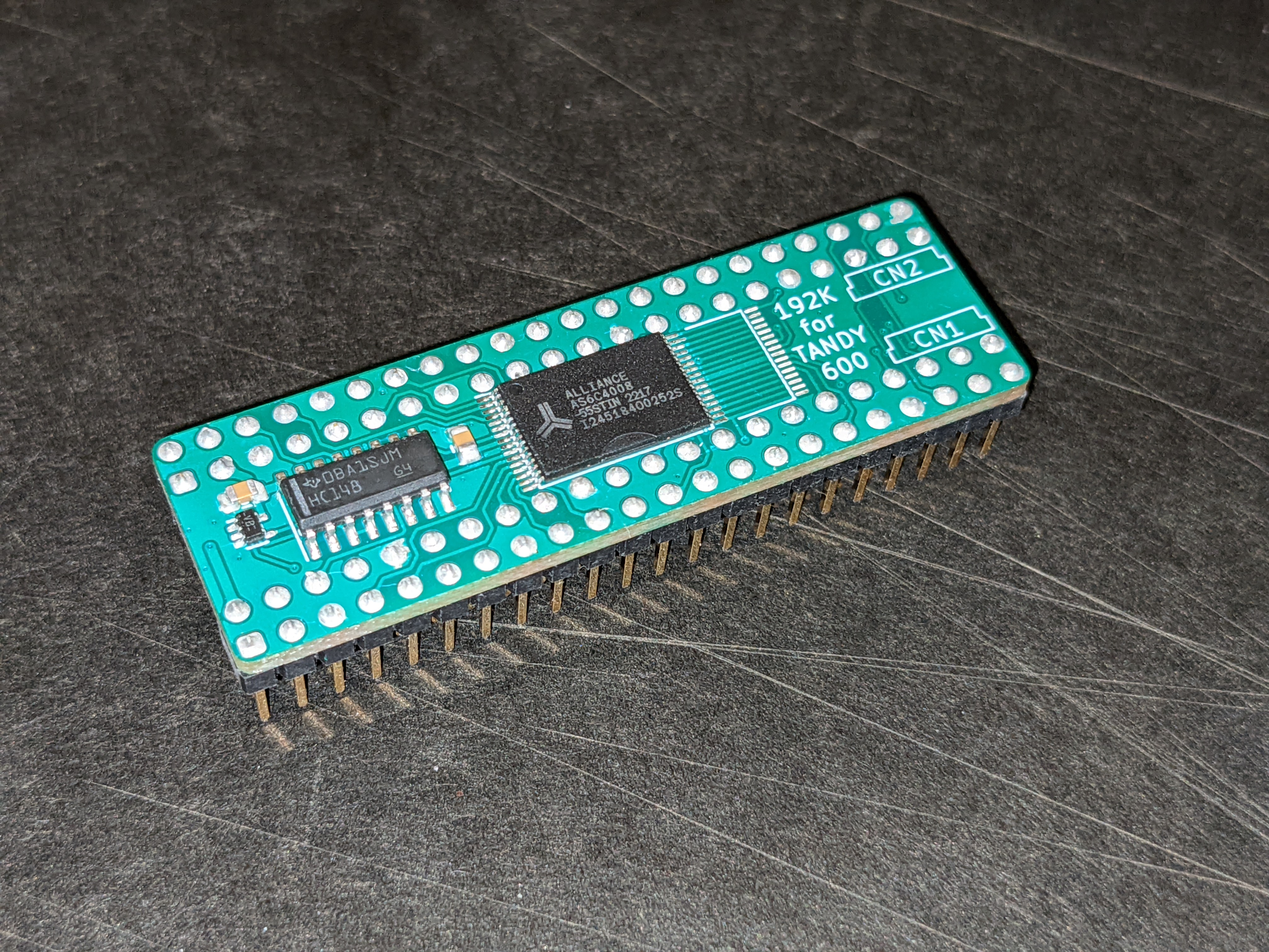
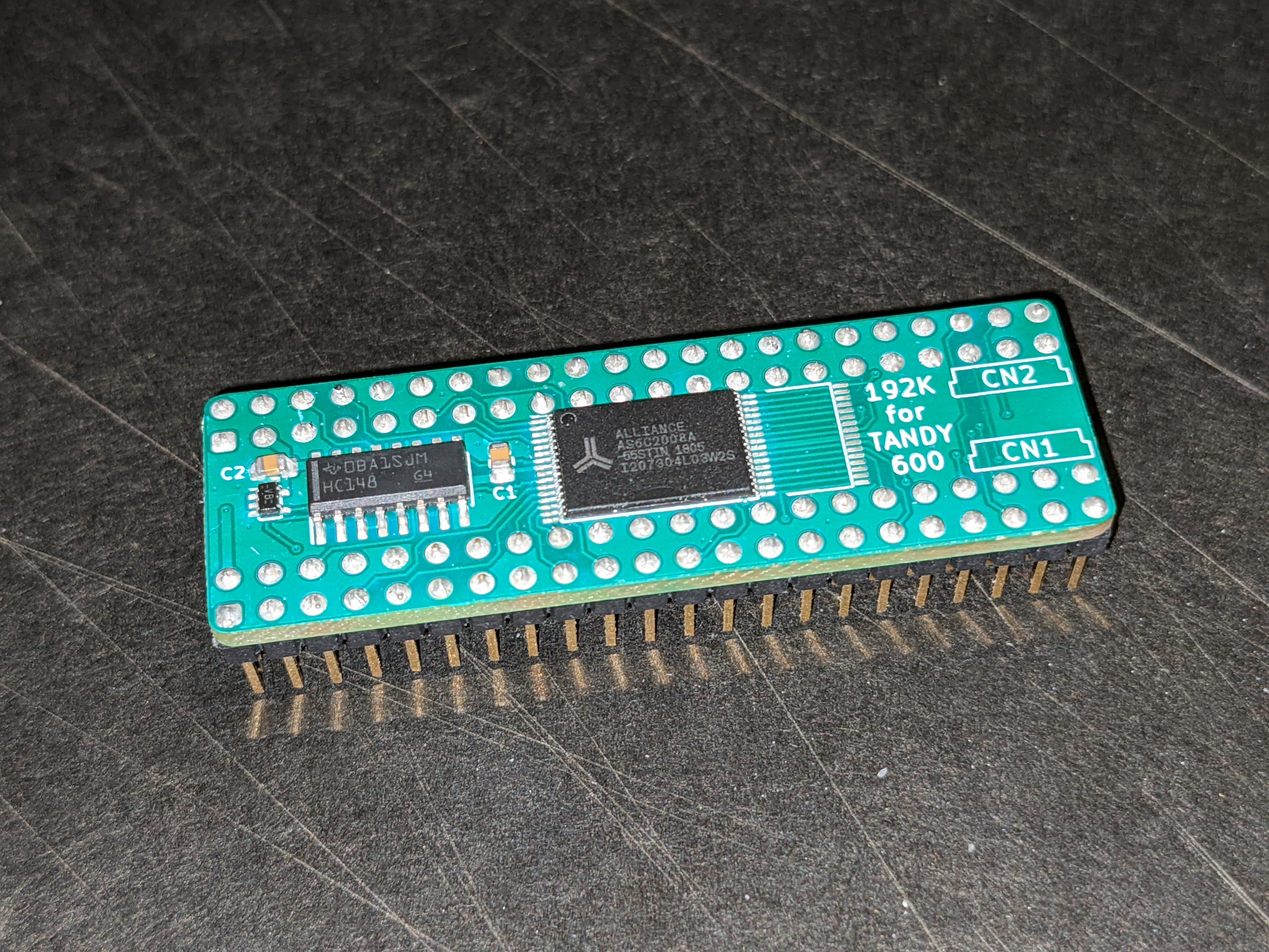
pics

diff --git a/README.md b/README.md
@@ -71,6 +71,7 @@ Single board that plugs into both CN1 and CN2 and supplies all 192K at once.
 ![](../../raw/main/PCB/TANDY_600_RAM_DUAL.bottom.jpg)  
 ![](../../raw/main/PCB/TANDY_600_RAM_DUAL.svg)  
 ![](../../raw/main/TANDY_600_RAM_DUAL.install.jpg)  
+![](../../raw/main/TANDY_600_RAM_192K_AS6C2008A.jpg)  
 
 ----
 
